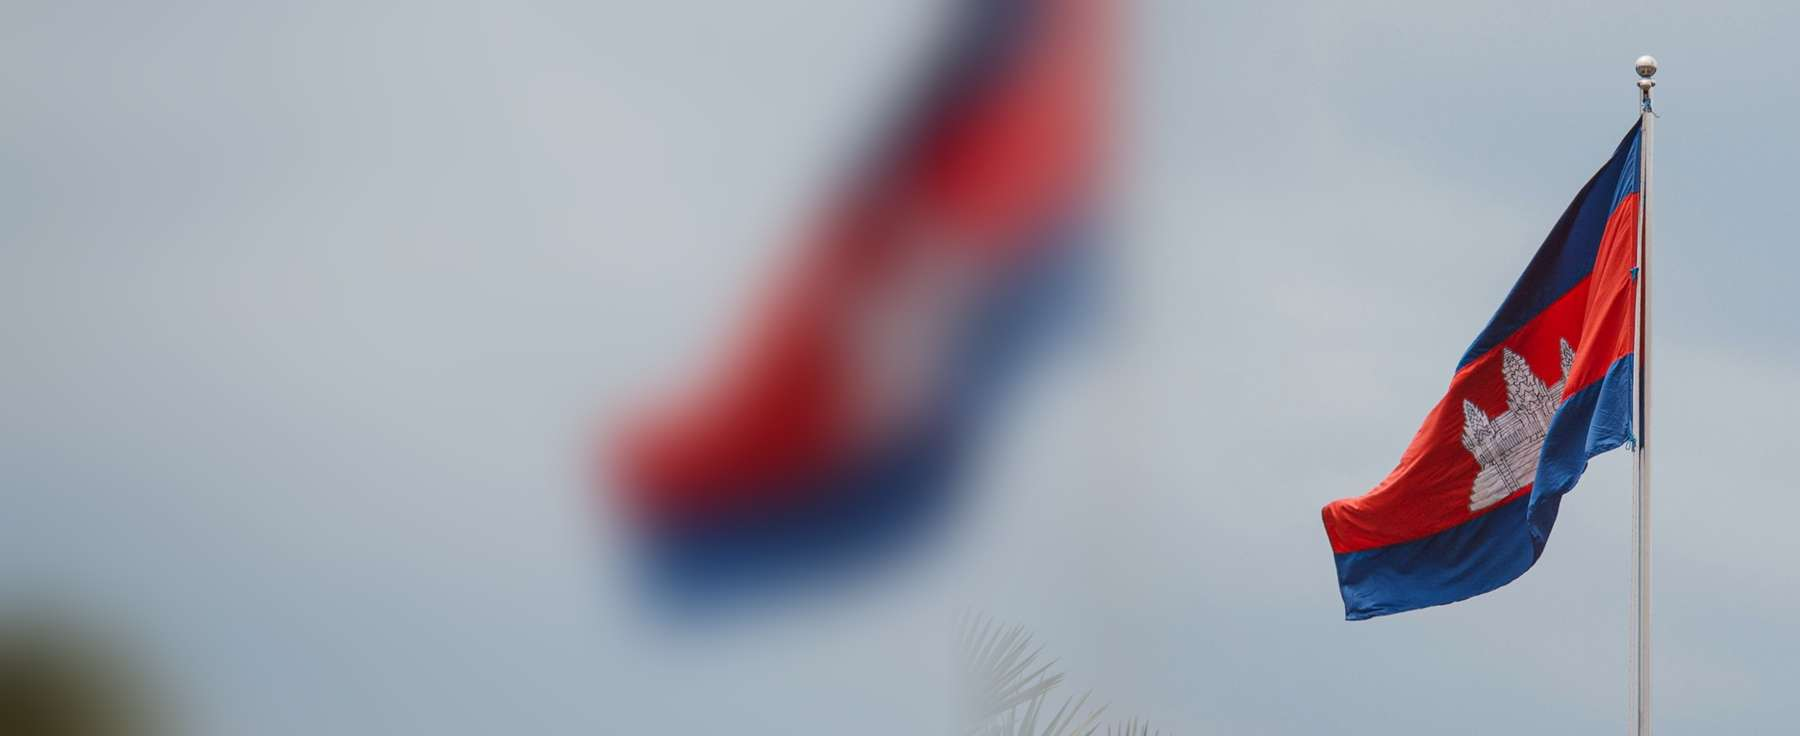
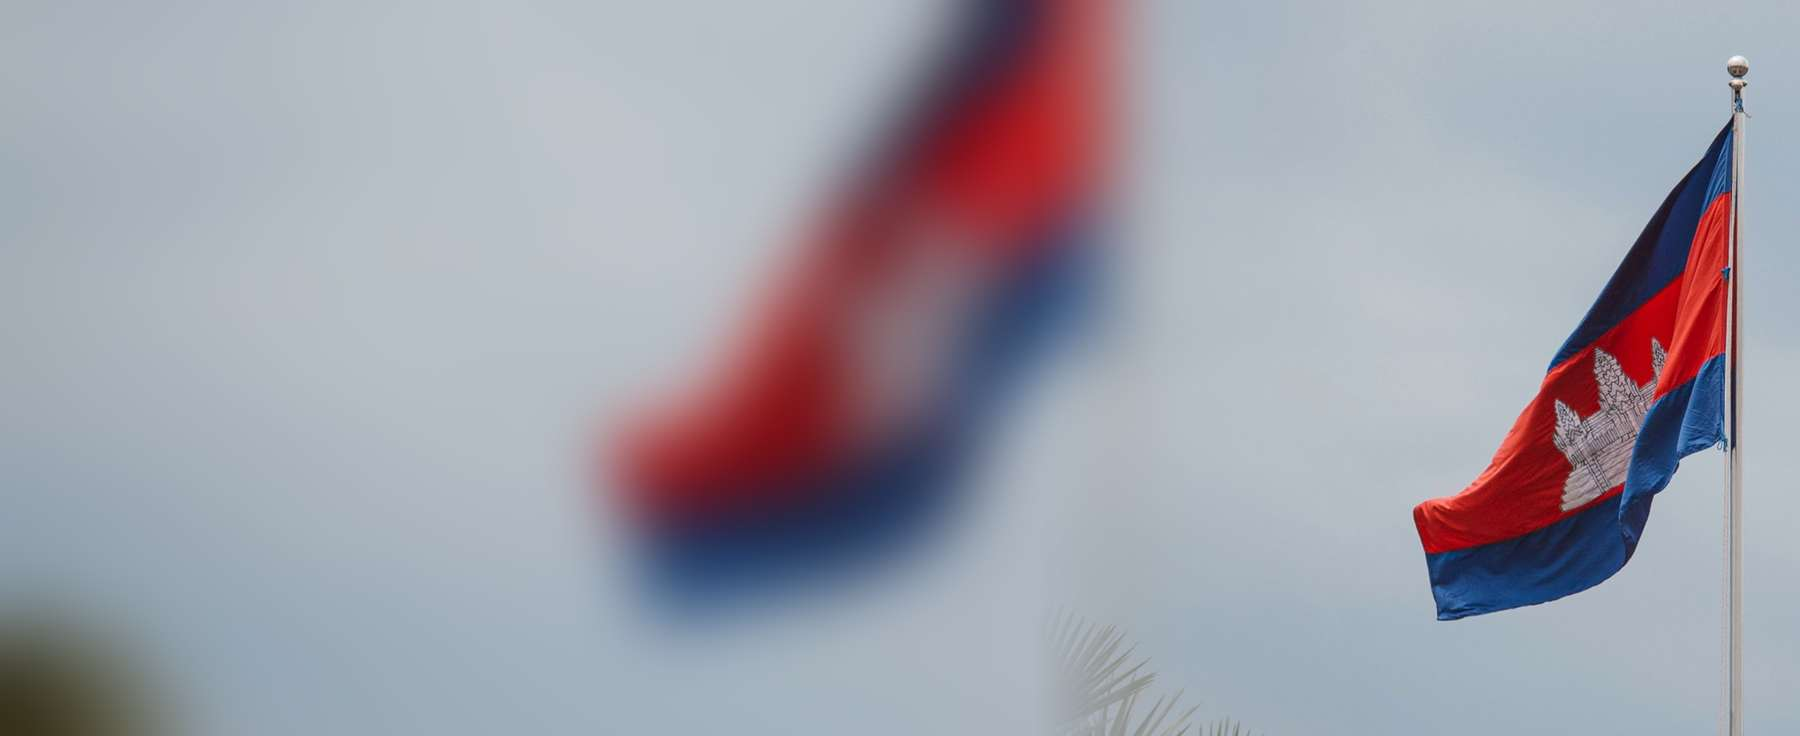
One photo per page header (keep Technology services and Local understanding bands), Cambridge gold section, flag clear of text, fix team page gap, larger orange caps
Claude-Session: https://claude.ai/code/session_01Xbf3RGxxj1HctPg1p79FkA

Changed region(s): [[0.7156, 0.0625, 0.9956, 1.0], [0.5289, 0.0, 0.6222, 0.4688], [0.56, 0.875, 0.6844, 1.0]]

diff --git a/styles.css b/styles.css
@@ -154,7 +154,6 @@ body.tinted:before{filter:blur(36px) saturate(1.5)}
 .tinted .origin .section-kicker{color:#3d6454}
 .tinted .origin-grid{border-top-color:rgba(16,48,60,.25)}
 body.plain{background:#fff}
-body.plain main section:not(.page-hero){background:#fff!important}
 .plain footer{background:linear-gradient(rgba(8,24,38,.9),rgba(8,24,38,.94)),var(--photo) center/cover}
 
 .tinted .team-principle,.plain .team-principle{background:linear-gradient(rgba(10,30,48,.8),rgba(10,30,48,.9)),var(--photo) center/cover!important;color:#fff}
@@ -186,3 +185,22 @@ body.tinted .value-grid article{background:transparent!important;backdrop-filter
 .contact-linkedin:hover{background:rgba(255,255,255,.14)!important}
 .li-badge{display:inline-grid;place-items:center;width:24px;height:24px;border-radius:4px;background:#0a66c2;color:#fff;font:700 13px/1 Arial,sans-serif}
 body.tinted .approach-steps p,.tinted .capability-card p{color:#3a4c58}
+
+/* ---- Round 5 ---- */
+body[style*="bg-about-flag"] .page-hero{background-position:right center}
+body.tinted .origin{background:linear-gradient(135deg,#ffb81c 0%,#e8a312 55%,#b98200 100%)!important;color:#1d1a14}
+.tinted .origin .section-heading h2,.tinted .origin-lead{color:#1d1a14}
+.tinted .origin-copy,.tinted .origin-copy p{color:#2a2417}
+.tinted .origin .section-kicker{color:#7b1a2f}
+.tinted .origin-grid{border-top-color:rgba(29,26,20,.3)}
+/* orange capitals: larger everywhere */
+.eyebrow,.section-kicker{font-size:15px;letter-spacing:.22em}
+.team-role{font-size:14px;letter-spacing:.18em}
+.team-bio .bio-heading{font-size:14px;letter-spacing:.18em}
+.division-heading p{font-size:14px;letter-spacing:.16em}
+.footer-linkedin{font-size:14px;letter-spacing:.14em}
+.linkedin-link,.profile-link{font-size:14px;letter-spacing:.14em}
+.contact-label{font-size:14px}
+.tech-center span,.tech-center small{font-size:12px}
+.capability-card>span,.approach-steps span,.value-grid span{font-size:14px}
+@media(max-width:560px){.eyebrow,.section-kicker{font-size:13px;letter-spacing:.18em}.team-role,.division-heading p{font-size:13px}}

diff --git a/team.html b/team.html
@@ -12,7 +12,7 @@
   <link rel="preconnect" href="https://fonts.googleapis.com">
   <link rel="preconnect" href="https://fonts.gstatic.com" crossorigin>
   <link href="https://fonts.googleapis.com/css2?family=DM+Sans:wght@400;500;600&family=Libre+Caslon+Display&display=swap" rel="stylesheet">
-  <link rel="stylesheet" href="styles.css?v=20261020">
+  <link rel="stylesheet" href="styles.css?v=20261022">
   <style>
     .team-person{min-width:0}
     .team-person .profile-links{display:flex!important;flex-direction:column!important;align-items:flex-start!important;gap:12px!important;width:100%!important;margin:20px 0 0!important}
@@ -22,7 +22,7 @@
     .team-role{font-size:15px!important}
   </style>
 </head>
-<body class="plain" style="--photo:url(assets/bg-team-aerial.jpg);--band1:url(assets/bg-fees-pavilion.jpg);--band2:url(assets/bg-fees-pavilion.jpg);--foot:url(assets/bg-careers-dusk.jpg)">
+<body class="plain" style="--photo:url(assets/bg-team-aerial.jpg);--band1:none;--band2:none;--foot:none">
   <header class="site-header" id="top">
     <a class="brand" href="index.html" aria-label="Lionhold Capital home">
       <img class="brand-lockup" src="assets/lionhold-lockup-light.png?v=3" alt="" width="1000" height="238">

diff --git a/services.html b/services.html
@@ -12,9 +12,9 @@
   <link rel="preconnect" href="https://fonts.googleapis.com">
   <link rel="preconnect" href="https://fonts.gstatic.com" crossorigin>
   <link href="https://fonts.googleapis.com/css2?family=DM+Sans:wght@400;500;600&family=Libre+Caslon+Display&display=swap" rel="stylesheet">
-  <link rel="stylesheet" href="styles.css?v=20261020">
+  <link rel="stylesheet" href="styles.css?v=20261022">
 </head>
-<body class="tinted" style="--photo:url(assets/bg-careers-dusk.jpg);--band1:url(assets/bg-team-aerial.jpg);--band2:url(assets/bg-fees-pavilion.jpg);--foot:url(assets/bg-services-towers.jpg)">
+<body class="tinted" style="--photo:url(assets/bg-careers-dusk.jpg);--band1:url(assets/bg-careers-dusk.jpg);--band2:none;--foot:none">
   <header class="site-header" id="top">
     <a class="brand" href="index.html" aria-label="Lionhold Capital home">
       <img class="brand-lockup" src="assets/lionhold-lockup-light.png?v=3" alt="" width="1000" height="238">

diff --git a/about.html b/about.html
@@ -12,9 +12,9 @@
   <link rel="preconnect" href="https://fonts.googleapis.com">
   <link rel="preconnect" href="https://fonts.gstatic.com" crossorigin>
   <link href="https://fonts.googleapis.com/css2?family=DM+Sans:wght@400;500;600&family=Libre+Caslon+Display&display=swap" rel="stylesheet">
-  <link rel="stylesheet" href="styles.css?v=20261020">
+  <link rel="stylesheet" href="styles.css?v=20261022">
 </head>
-<body class="tinted" style="--photo:url(assets/bg-about-flag.jpg);--band1:url(assets/bg-careers-dusk.jpg);--band2:url(assets/bg-team-aerial.jpg);--foot:url(assets/bg-services-towers.jpg)">
+<body class="tinted" style="--photo:url(assets/bg-about-flag.jpg);--band1:url(assets/bg-about-flag.jpg);--band2:none;--foot:none">
   <header class="site-header" id="top">
     <a class="brand" href="index.html" aria-label="Lionhold Capital home">
       <img class="brand-lockup" src="assets/lionhold-lockup-light.png?v=3" alt="" width="1000" height="238">

diff --git a/careers.html b/careers.html
@@ -12,9 +12,9 @@
   <link rel="preconnect" href="https://fonts.googleapis.com">
   <link rel="preconnect" href="https://fonts.gstatic.com" crossorigin>
   <link href="https://fonts.googleapis.com/css2?family=DM+Sans:wght@400;500;600&family=Libre+Caslon+Display&display=swap" rel="stylesheet">
-  <link rel="stylesheet" href="styles.css?v=20261020">
+  <link rel="stylesheet" href="styles.css?v=20261022">
 </head>
-<body class="tinted" style="--photo:url(assets/bg-services-towers.jpg);--band1:none;--band2:none;--foot:url(assets/bg-fees-pavilion.jpg)">
+<body class="tinted" style="--photo:url(assets/bg-services-towers.jpg);--band1:none;--band2:none;--foot:none">
   <header class="site-header" id="top">
     <a class="brand" href="index.html" aria-label="Lionhold Capital home">
       <img class="brand-lockup" src="assets/lionhold-lockup-light.png?v=3" alt="" width="1000" height="238">

diff --git a/fees.html b/fees.html
@@ -12,9 +12,9 @@
   <link rel="preconnect" href="https://fonts.googleapis.com">
   <link rel="preconnect" href="https://fonts.gstatic.com" crossorigin>
   <link href="https://fonts.googleapis.com/css2?family=DM+Sans:wght@400;500;600&family=Libre+Caslon+Display&display=swap" rel="stylesheet">
-  <link rel="stylesheet" href="styles.css?v=20261020">
+  <link rel="stylesheet" href="styles.css?v=20261022">
 </head>
-<body class="tinted" style="--photo:url(assets/bg-fees-pavilion.jpg);--band1:none;--band2:none;--foot:url(assets/bg-team-aerial.jpg)">
+<body class="tinted" style="--photo:url(assets/bg-fees-pavilion.jpg);--band1:none;--band2:none;--foot:none">
   <header class="site-header" id="top">
     <a class="brand" href="index.html" aria-label="Lionhold Capital home">
       <img class="brand-lockup" src="assets/lionhold-lockup-light.png?v=3" alt="" width="1000" height="238">

diff --git a/index.html b/index.html
@@ -12,7 +12,7 @@
   <link rel="preconnect" href="https://fonts.googleapis.com">
   <link rel="preconnect" href="https://fonts.gstatic.com" crossorigin>
   <link href="https://fonts.googleapis.com/css2?family=DM+Sans:wght@400;500;600&family=Libre+Caslon+Display&display=swap" rel="stylesheet">
-  <link rel="stylesheet" href="styles.css?v=20261020">
+  <link rel="stylesheet" href="styles.css?v=20261022">
 </head>
 <body class="tinted" style="--photo:url(assets/hero-poster.jpg);--band1:url(assets/hero-poster.jpg);--band2:url(assets/hero-still-2.jpg);--foot:none">
   <header class="site-header" id="top">
